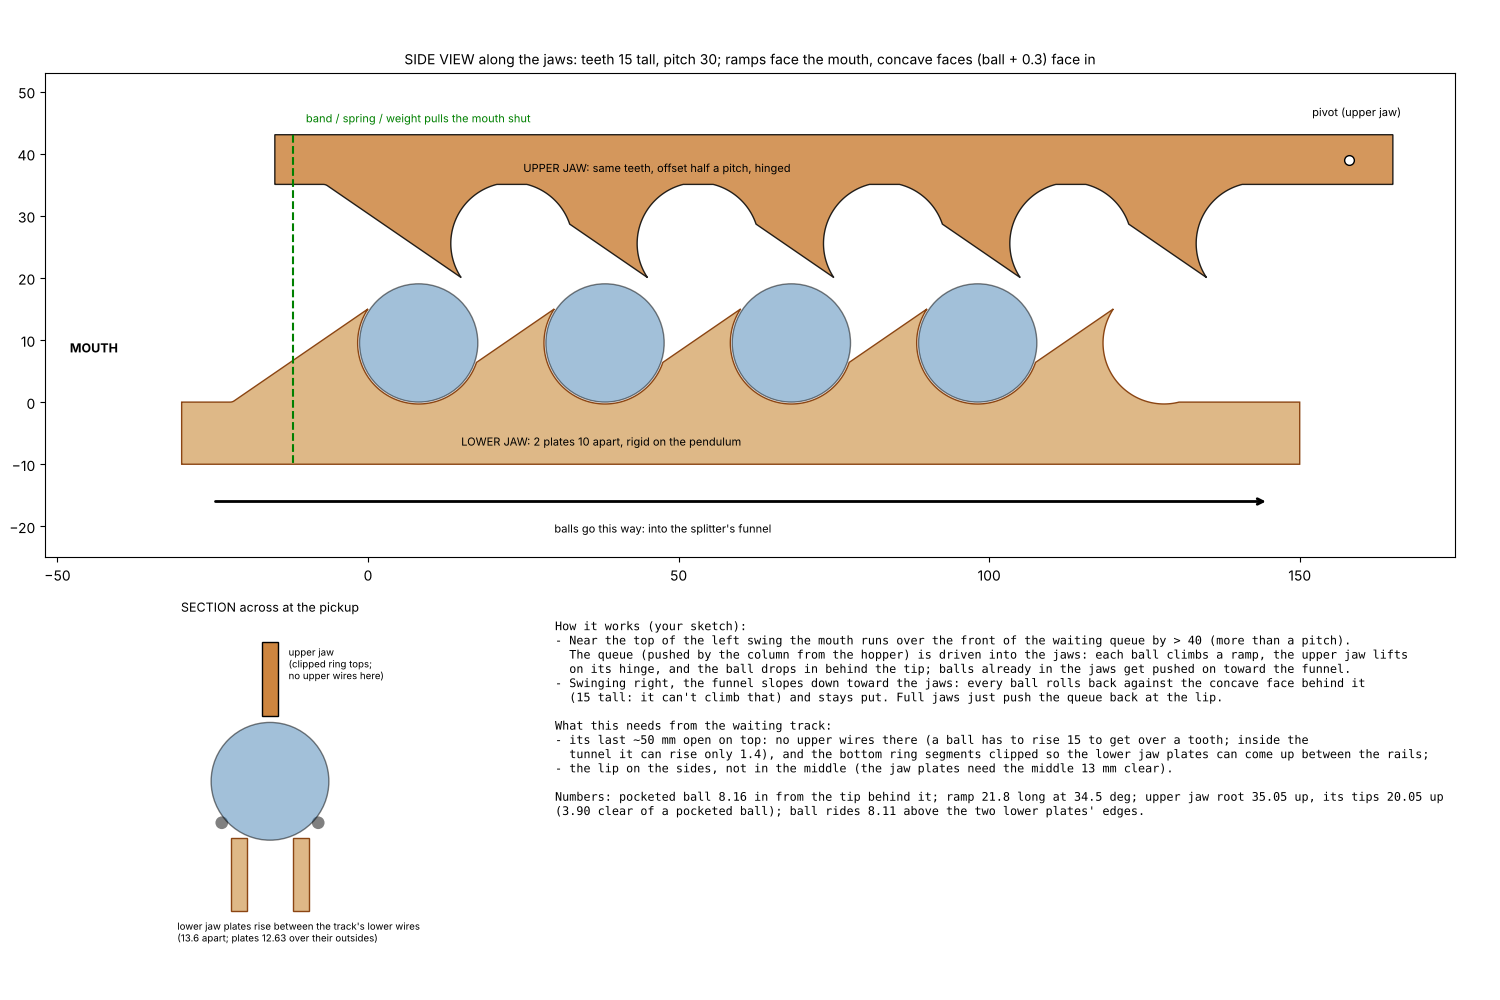
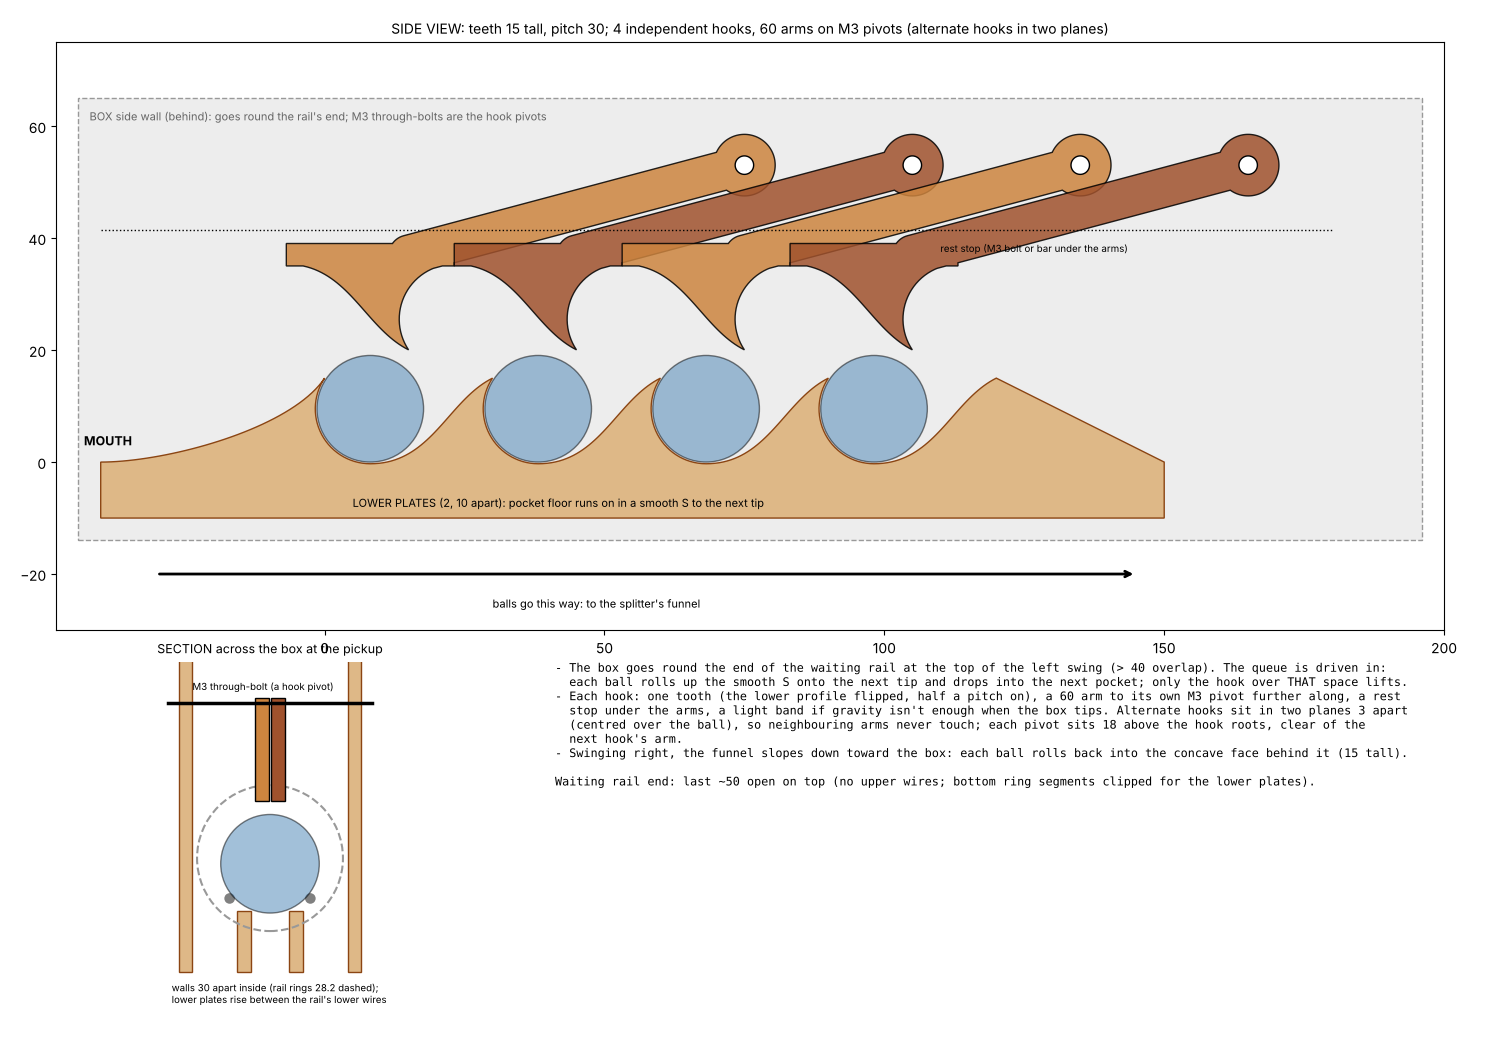
Infeed scoop sketch: smooth S from each pocket floor to the next tip, independent hooks on 60 arms with their own M3 pivots, box round the rail end
Claude-Session: https://claude.ai/code/session_01LQy87QnU21cWEAk5CN6jGY

diff --git a/marbles/clock/infeed_jaws_sketch.py b/marbles/clock/infeed_jaws_sketch.py
@@ -1,89 +1,117 @@
 #!/usr/bin/env python3
-"""Sketch: infeed jaws on the pendulum. Lower jaw (two toothed ply plates, rigid on the pendulum) and upper jaw (one
-plate, same teeth, offset half a pitch, hinged near the funnel end, pulled shut by a band at the mouth). Teeth: ramps face
-the mouth, concave faces face in, so the waiting queue pushes balls in as the pendulum swings up into it and nothing runs
-back out when the swing reverses and the funnel slopes down toward the jaws.
+"""Sketch: infeed scoop on the pendulum. A box (two side walls) that goes round the outstretched end of the waiting
+rail; inside it two lower toothed plates (rigid) and a row of independent hooks, each with one tooth on a ~60 mm arm
+pivoting on its own M3 through-bolt further along, so every space ratchets on its own. Teeth: ramps (a smooth S from the
+pocket floor up to the next tip) face the mouth; concave faces (the ball's curve) face in.
     python3 marbles/clock/infeed_jaws_sketch.py   # -> marbles/views/infeed_jaws.png"""
 import math
 from pathlib import Path
 import matplotlib; matplotlib.use("Agg")
 import matplotlib.pyplot as plt  # noqa: E402
 from shapely import affinity  # noqa: E402
-from shapely.geometry import Point, Polygon, box  # noqa: E402
+from shapely.geometry import LineString, Point, Polygon, box  # noqa: E402
 from shapely.ops import unary_union  # noqa: E402
 
 BALL = 19.05; BR = BALL / 2; RP = BR + 0.3
-P, H = 30.0, 15.0              # Alex: 30 pitch, 15 tall
-N = 4                          # pockets
-XC = math.sqrt(RP ** 2 - (H - BR) ** 2)   # pocketed ball centre, inward of the tip it sits behind
-ROOT = H + BALL + 1.0          # upper jaw root above the lower floor (a ball over a lower tip clears it by 1)
-PLATE_SP = 10.0                # the two lower plates, centre to centre (fit between the track's lower wires, 13.6 apart)
-T = 2.63
-OVERLAP = 40.0
+P, H = 30.0, 15.0                  # pitch, tooth height (Alex)
+N = 4                              # pockets / hooks
+XC = math.sqrt(RP ** 2 - (H - BR) ** 2)   # pocketed ball centre, inward of the tip behind it
+ROOT = H + BALL + 1.0              # hook teeth: same profile flipped, root this high
+ARM, PIV_UP = 60.0, 18.0           # hook arm to its pivot, pivot this far above ROOT (clears the next hook's arm)
+T = 2.63; M3 = 3.3
+PLATE_SP = 10.0                    # lower plates, centre to centre (between the rail's lower wires, 13.6 apart)
+WALL_IN = 30.0                     # box: inside width (round the rail's rings, OD 28.2)
 
 
-def lower_jaw():
-    """floor y = 0, mouth at the left (x < 0), balls go right. Tooth k: ramp up from the pocket floor to its tip at
-    (kP, H), concave face down the right side round the ball at (kP + XC, BR)."""
-    teeth = [Polygon([(k * P - (P - XC), 0), (k * P, H), (k * P + XC, 0)]) for k in range(N + 1)]
-    body = unary_union([box(-P, -10, N * P + 30, 0)] + teeth)
-    return body.difference(unary_union([Point(k * P + XC, BR).buffer(RP, 96) for k in range(N + 1)])).buffer(1.2).buffer(-1.2)
+def bezier(p0, p1, p2, p3, n=40):
+    return [tuple((1 - t) ** 3 * a + 3 * (1 - t) ** 2 * t * b + 3 * (1 - t) * t * t * c + t ** 3 * d
+                  for a, b, c, d in zip(p0, p1, p2, p3)) for t in (i / n for i in range(n + 1))]
 
 
-def upper_jaw():
-    """the lower profile flipped top to bottom (ramps still face the mouth, concave faces in), shifted half a pitch,
-    root at ROOT; a tail past the last tooth for the hinge"""
-    lo = lower_jaw().intersection(box(-P, -0.01, N * P + 30, H + 1))
-    up = affinity.scale(lo, 1, -1, origin=(0, 0))
-    up = affinity.translate(up, P / 2, ROOT)
-    return unary_union([up, box(-P + P / 2, ROOT, N * P + 45, ROOT + 8)])
+def tooth_profile(x0):
+    """one pitch of the lower edge, from tip k at (x0, H): concave face (ball curve) down to the pocket floor under the
+    ball, then a smooth S up to the next tip at (x0 + P, H)"""
+    cx, cy = x0 + XC, BR
+    a0 = math.atan2(H - cy, x0 - cx)
+    arc = [(cx + RP * math.cos(a), cy + RP * math.sin(a)) for a in [a0 + (1.5 * math.pi - a0) * i / 30 for i in range(31)]]   # down the ball's back
+    bot = arc[-1]
+    s = bezier(bot, (bot[0] + 0.5 * (P - XC), bot[1]), (x0 + P - 8.0, H - 4.0), (x0 + P, H))   # stays inside the overhang
+    return arc + s[1:]
+
+
+def lower_plate():
+    pts = [(-P - 10, -10), (-P - 10, 0)]
+    pts += [(x, y) for x, y in bezier((-P - 10, 0), (-P + 2, 0), (-6, H - 9), (0, H))][1:]      # mouth ramp
+    for k in range(N):
+        pts += tooth_profile(k * P)[1:]
+    pts += [(N * P + 30, 0), (N * P + 30, -10)]
+    return Polygon(pts)
+
+
+def hook(k):
+    """hook k: one lower tooth (S ramp facing the mouth, concave face facing in) flipped top to bottom, its tip half a
+    pitch on from the lower tips, root at ROOT; an arm from the root up to a pivot ARM further along"""
+    one = lower_plate().intersection(box(XC, 0, P + XC, H + 1))          # lower tooth 1: tip at (P, H)
+    x_t = k * P + P / 2
+    tooth = affinity.translate(affinity.scale(one, 1, -1, origin=(0, 0)), x_t - P, ROOT)
+    piv = (x_t + ARM, ROOT + PIV_UP)
+    root = box(x_t - P + XC, ROOT - 0.01, x_t + XC, ROOT + 4)
+    arm = LineString([(x_t, ROOT + 2), piv]).buffer(3.5, 16)
+    g = unary_union([tooth, root, arm, Point(piv).buffer(5.5, 32)]).difference(Point(piv).buffer(M3 / 2, 24))
+    return g, piv
 
 
 def main():
-    fig = plt.figure(figsize=(15, 10))
-    a = fig.add_axes([0.03, 0.42, 0.94, 0.53]); s1 = fig.add_axes([0.03, 0.04, 0.3, 0.34]); t = fig.add_axes([0.37, 0.04, 0.6, 0.34])
-    lo, up = lower_jaw(), upper_jaw()
-    a.fill(*lo.exterior.xy, fc="burlywood", ec="saddlebrown"); a.fill(*up.exterior.xy, fc="peru", ec="k", alpha=.85)
+    fig = plt.figure(figsize=(15, 10.5))
+    a = fig.add_axes([0.03, 0.40, 0.94, 0.56]); s1 = fig.add_axes([0.03, 0.03, 0.3, 0.34]); t = fig.add_axes([0.37, 0.03, 0.6, 0.34])
+    a.add_patch(plt.Rectangle((-P - 14, -14), N * P + 30 + ARM + 30, ROOT + PIV_UP + 26, fc="0.93", ec="0.6", ls="--"))
+    a.text(-P - 12, ROOT + PIV_UP + 8, "BOX side wall (behind): goes round the rail's end; M3 through-bolts are the hook pivots", fontsize=8, color="0.4")
+    lo = lower_plate()
+    a.fill(*lo.exterior.xy, fc="burlywood", ec="saddlebrown")
     for k in range(N):
         a.add_patch(plt.Circle((k * P + XC, BR), BR, fc="steelblue", alpha=.5, ec="k"))
-    hx, hy = N * P + 38, ROOT + 4
-    a.plot(hx, hy, "wo", ms=7, mec="k"); a.text(hx - 6, hy + 7, "pivot (upper jaw)", fontsize=8)
-    a.plot([-P / 2 + 3, -P / 2 + 3], [ROOT + 8, -10], "g--", lw=1.5); a.text(-P / 2 + 5, ROOT + 10, "band / spring / weight pulls the mouth shut", fontsize=8, color="g")
-    a.annotate("", (N * P + 25, -16), (-P + 5, -16), arrowprops=dict(arrowstyle="->", lw=2)); a.text(30, -21, "balls go this way: into the splitter's funnel", fontsize=8)
-    a.text(-P - 18, 8, "MOUTH", fontsize=9, weight="bold")
-    a.text(15, -7, f"LOWER JAW: 2 plates {PLATE_SP:g} apart, rigid on the pendulum", fontsize=8)
-    a.text(25, ROOT + 2, "UPPER JAW: same teeth, offset half a pitch, hinged", fontsize=8)
-    a.set_xlim(-P - 22, N * P + 55); a.set_ylim(-25, ROOT + 18); a.set_aspect("equal")
-    a.set_title(f"SIDE VIEW along the jaws: teeth {H:g} tall, pitch {P:g}; ramps face the mouth, concave faces (ball + 0.3) face in", fontsize=10)
-    # section across at the pickup
+    for k in range(N):
+        g, piv = hook(k)
+        col = "peru" if k % 2 == 0 else "sienna"
+        a.fill(*g.exterior.xy, fc=col, ec="k", alpha=.85)
+        for r in g.interiors:
+            a.fill(*r.xy, fc="w", ec="k")
+    a.plot([-P - 14 + 4, N * P + 60], [ROOT + 6.5, ROOT + 6.5], "k:", lw=1)
+    a.text(N * P - 10, ROOT + 2.5, "rest stop (M3 bolt or bar under the arms)", fontsize=7)
+    a.annotate("", (N * P + 25, -20), (-P, -20), arrowprops=dict(arrowstyle="->", lw=2)); a.text(30, -26, "balls go this way: to the splitter's funnel", fontsize=8)
+    a.text(-P - 13, 3, "MOUTH", fontsize=9, weight="bold")
+    a.text(5, -8, f"LOWER PLATES (2, {PLATE_SP:g} apart): pocket floor runs on in a smooth S to the next tip", fontsize=8)
+    a.set_xlim(-P - 18, N * P + ARM + 20); a.set_ylim(-30, ROOT + PIV_UP + 22); a.set_aspect("equal")
+    a.set_title(f"SIDE VIEW: teeth {H:g} tall, pitch {P:g}; {N} independent hooks, {ARM:g} arms on M3 pivots (alternate hooks in two planes)", fontsize=10)
+    # section across the box at the pickup
+    W = WALL_IN / 2
     for sx in (-1, 1):
-        s1.add_patch(plt.Circle((sx * 7.8, -7.8), 1.025, fc="0.5"))                        # track's lower wires
-        s1.add_patch(plt.Rectangle((sx * PLATE_SP / 2 - T / 2, -22), T, 22 - 10.2 + 0, fc="burlywood", ec="saddlebrown"))
-    zc = -10.2 + math.sqrt(BR ** 2 - (PLATE_SP / 2) ** 2)
-    s1.add_patch(plt.Circle((0, zc + 1.0), BR, fc="steelblue", alpha=.5, ec="k"))
-    s1.add_patch(plt.Rectangle((-T / 2, zc + BR + 2), T, 12, fc="peru", ec="k"))
-    s1.text(-15, -27, "lower jaw plates rise between the track's lower wires\n(13.6 apart; plates 12.63 over their outsides)", fontsize=7)
-    s1.text(3, zc + BR + 8, "upper jaw\n(clipped ring tops;\nno upper wires here)", fontsize=7)
-    s1.set_xlim(-18, 18); s1.set_ylim(-30, 25); s1.set_aspect("equal"); s1.axis("off")
-    s1.set_title("SECTION across at the pickup", fontsize=9)
+        s1.add_patch(plt.Rectangle((sx * W if sx > 0 else -W - T, -22), T, 64, fc="burlywood", ec="saddlebrown"))
+        s1.add_patch(plt.Rectangle((sx * PLATE_SP / 2 - T / 2, -22), T, 11.8, fc="burlywood", ec="saddlebrown"))
+        s1.add_patch(plt.Circle((sx * 7.8, -7.8), 1.025, fc="0.5"))
+    s1.add_patch(plt.Circle((0, 0), 14.1, fc="none", ec="0.6", lw=1.5, ls="--"))
+    s1.add_patch(plt.Circle((0, -10.2 + math.sqrt(BR ** 2 - (PLATE_SP / 2) ** 2) + 1), BR, fc="steelblue", alpha=.5, ec="k"))
+    for sx, col in ((-1, "peru"), (1, "sienna")):
+        s1.add_patch(plt.Rectangle((sx * 1.5 - T / 2, 11), T, 20, fc=col, ec="k"))
+    s1.plot([-W - T - 2, W + T + 2], [30, 30], "k-", lw=2.5); s1.text(-W, 32.5, "M3 through-bolt (a hook pivot)", fontsize=7)
+    s1.text(-W - 4, -28, f"walls {WALL_IN:g} apart inside (rail rings 28.2 dashed);\nlower plates rise between the rail's lower wires", fontsize=7)
+    s1.set_xlim(-22, 22); s1.set_ylim(-31, 38); s1.set_aspect("equal"); s1.axis("off")
+    s1.set_title("SECTION across the box at the pickup", fontsize=9)
     t.axis("off")
-    t.text(0, 1, "How it works (your sketch):\n"
-           f"- Near the top of the left swing the mouth runs over the front of the waiting queue by > {OVERLAP:g} (more than a pitch).\n"
-           "  The queue (pushed by the column from the hopper) is driven into the jaws: each ball climbs a ramp, the upper jaw lifts\n"
-           "  on its hinge, and the ball drops in behind the tip; balls already in the jaws get pushed on toward the funnel.\n"
-           "- Swinging right, the funnel slopes down toward the jaws: every ball rolls back against the concave face behind it\n"
-           f"  ({H:g} tall: it can't climb that) and stays put. Full jaws just push the queue back at the lip.\n\n"
-           "What this needs from the waiting track:\n"
-           f"- its last ~{OVERLAP + 10:g} mm open on top: no upper wires there (a ball has to rise {H:g} to get over a tooth; inside the\n"
-           "  tunnel it can rise only 1.4), and the bottom ring segments clipped so the lower jaw plates can come up between the rails;\n"
-           "- the lip on the sides, not in the middle (the jaw plates need the middle 13 mm clear).\n\n"
-           f"Numbers: pocketed ball {XC:.2f} in from the tip behind it; ramp {P - XC:.1f} long at "
-           f"{math.degrees(math.atan(H / (P - XC))):.1f} deg; upper jaw root {ROOT:.2f} up, its tips {ROOT - H:.2f} up\n"
-           f"(3.90 clear of a pocketed ball); ball rides {math.sqrt(BR ** 2 - (PLATE_SP / 2) ** 2):.2f} above the two lower plates' edges.",
+    t.text(0, 1, "- The box goes round the end of the waiting rail at the top of the left swing (> 40 overlap). The queue is driven in:\n"
+           "  each ball rolls up the smooth S onto the next tip and drops into the next pocket; only the hook over THAT space lifts.\n"
+           "- Each hook: one tooth (the lower profile flipped, half a pitch on), a 60 arm to its own M3 pivot further along, a rest\n"
+           "  stop under the arms, a light band if gravity isn't enough when the box tips. Alternate hooks sit in two planes 3 apart\n"
+           "  (centred over the ball), so neighbouring arms never touch; each pivot sits 18 above the hook roots, clear of the\n"
+           "  next hook's arm.\n"
+           "- Swinging right, the funnel slopes down toward the box: each ball rolls back into the concave face behind it (15 tall).\n\n"
+           "Waiting rail end: last ~50 open on top (no upper wires; bottom ring segments clipped for the lower plates).",
            fontsize=8.5, va="top", family="monospace")
     out = Path(__file__).resolve().parent.parent / "views" / "infeed_jaws.png"
     plt.savefig(out, dpi=100)
-    print(out.name)
+    # check: the S stays clear of the pocketed ball
+    tp = LineString(tooth_profile(0))
+    print(out.name, "S-curve to pocketed ball min gap %.2f" % (tp.distance(Point(XC, BR)) - BR))
 
 
 if __name__ == "__main__":
